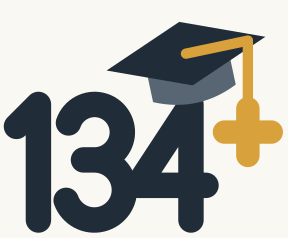
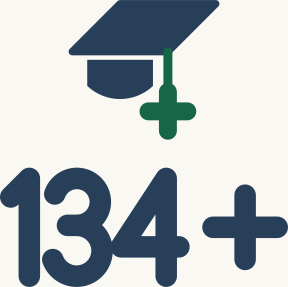
Brand: redesigned 134+ graduation-cap mark (Crafted Cap) (#34)
Keeps the cap and the "134+" numerals, redraws the cap as a designed mark:
the board is a square seen obliquely, so every edge runs at 0° or 45°;
the bowl's underside is one true arc, split from the board by a clean gap;
the tassel falls at 90° over the front edge on a fine cord and ends in a
bold "+" (half / full weight). Two colours: cap in the accent (navy /
periwinkle), the "+" in the success green; the old gold and grey shading
are gone, and the app icon and favicon are now the same drawing.

- public/brand/: symbol, horizontal and stacked lockups, each in colour
  (light), reversed colour (dark), black and white; numerals outlined,
  3–4 gap opened
- public/logo.svg + logo-simple.svg: new sources; scripts/generate-icons.mjs
  regenerated every PNG icon, favicon.ico and the auth-email mark
- BrandLogo: stacked lockup coloured from theme tokens
- Email templates: logo height for the new aspect ratio

diff --git a/src/components/BrandLogo.tsx b/src/components/BrandLogo.tsx
@@ -1,33 +1,15 @@
 /**
- * The 134+ mark without its app-icon tile, for use on the page itself.
- * Same geometry as public/logo.svg, but colored from theme tokens so it reads
- * on both the light paper and the dark background: numerals and cap in ink,
- * cap underside in soft ink, tassel cord and "+" in gold (a deeper gold on
- * light paper, where the brand #F1C779 would be too faint).
+ * The 134+ stacked lockup (mortarboard over the numerals) for use on the page.
+ * Same geometry as public/brand/134plus-stacked.svg, coloured from theme tokens
+ * so it reads on both the light paper and the dark background: cap in the
+ * accent (navy / periwinkle), the tassel's "+" in the success green, numerals in ink.
  */
 export function BrandLogo({ className }: { className?: string }) {
   return (
-    <svg viewBox="82 92 418 346" role="img" aria-label="134+" className={className}>
-      <g
-        transform="translate(30 96) scale(.84)"
-        fill="none"
-        strokeWidth={44}
-        strokeLinecap="round"
-        strokeLinejoin="round"
-        className="stroke-exam-ink"
-      >
-        <path d="M90 214 L128 176 V376" />
-        <path d="M180 208 A48 48 0 1 1 225 272 A52 52 0 1 1 176 342 M206 272 H225" />
-        <path d="M392 376 V176 L300 316 H418" />
-      </g>
-      <g transform="rotate(-12 352 170)">
-        <path d="M290.6 186.5 V229 Q352 257.3 413.4 229 V186.5" className="fill-exam-ink-soft" />
-        <path d="M352 122.8 L470 170 L352 217.2 L234 170 Z" className="fill-exam-ink" />
-      </g>
-      <g fill="none" strokeLinecap="round" strokeLinejoin="round" className="stroke-[#D9A13B] dark:stroke-exam-alt">
-        <path d="M352 170 L442 151 V250" strokeWidth={15} />
-        <path d="M442 250 V318 M408 284 H476" strokeWidth={34} />
-      </g>
+    <svg viewBox="0 0 412.4 410.8" role="img" aria-label="134+" className={className}>
+      <path className="fill-exam-accent" d="M99.74 70.02L168.19 1.57A5.35 5.35 0 0 1 171.98 -0L171.98 -0L308.87 -0A5.35 5.35 0 0 1 312.66 9.13L312.66 9.13L244.21 77.58A5.35 5.35 0 0 1 240.42 79.14L240.42 79.14L103.53 79.14A5.35 5.35 0 0 1 99.74 70.02Z M124.92 85.56H219.03V122.99A68.45 68.45 0 0 1 124.92 122.99Z" />
+      <path className="fill-exam-sage" d="M246.84 73.8L246.84 159.36A6.42 6.42 0 0 1 234.01 159.36L234.01 73.8A6.42 6.42 0 0 1 246.84 73.8Z M253.26 131.55L253.26 187.17A12.83 12.83 0 0 1 227.59 187.17L227.59 131.55A12.83 12.83 0 0 1 253.26 131.55Z M212.62 146.52L268.23 146.52A12.83 12.83 0 0 1 268.23 172.19L212.62 172.19A12.83 12.83 0 0 1 212.62 146.52Z" />
+      <path className="fill-exam-ink" d="M4.51 271.11L31.11 244.51A15.4 15.4 0 0 1 52.89 266.29L26.29 292.89A15.4 15.4 0 0 1 4.51 271.11Z M57.4 255.4L57.4 395.4A15.4 15.4 0 0 1 26.6 395.4L26.6 255.4A15.4 15.4 0 0 1 57.4 255.4Z M63.88 272.67A49 49 0 1 1 109.82 338A15.4 15.4 0 0 1 109.98 307.2A18.2 18.2 0 1 0 92.92 282.93A15.4 15.4 0 0 1 63.88 272.67Z M109.96 307.2A51.8 51.8 0 1 1 61.15 376.93A15.4 15.4 0 0 1 90.05 366.27A21 21 0 1 0 109.84 338A15.4 15.4 0 0 1 109.96 307.2Z M96.6 307.2L109.9 307.2A15.4 15.4 0 0 1 109.9 338L96.6 338A15.4 15.4 0 0 1 96.6 307.2Z M222.6 395.4L222.6 255.4A15.4 15.4 0 0 1 253.4 255.4L253.4 395.4A15.4 15.4 0 0 1 222.6 395.4Z M250.87 263.86L186.47 361.86A15.4 15.4 0 0 1 160.73 344.94L225.13 246.94A15.4 15.4 0 0 1 250.87 263.86Z M173.6 338L256.2 338A15.4 15.4 0 0 1 256.2 368.8L173.6 368.8A15.4 15.4 0 0 1 173.6 338Z M366.4 279.4L366.4 371.4A15.4 15.4 0 0 1 335.6 371.4L335.6 279.4A15.4 15.4 0 0 1 366.4 279.4Z M305 310L397 310A15.4 15.4 0 0 1 397 340.8L305 340.8A15.4 15.4 0 0 1 305 310Z" />
     </svg>
   );
 }

diff --git a/supabase/templates/confirm-signup.html b/supabase/templates/confirm-signup.html
@@ -25,7 +25,7 @@
           <!-- Logo: the same 134+ mark that sits above the login card -->
           <tr>
             <td align="center" style="padding:0 0 24px;">
-              <img src="https://amiret-prep.vercel.app/email/brand-mark.png" width="96" height="79" alt="134+" style="display:block;width:96px;height:auto;border:0;outline:none;text-decoration:none;">
+              <img src="https://amiret-prep.vercel.app/email/brand-mark.png" width="96" height="96" alt="134+" style="display:block;width:96px;height:auto;border:0;outline:none;text-decoration:none;">
             </td>
           </tr>
 

diff --git a/supabase/templates/reset-password.html b/supabase/templates/reset-password.html
@@ -25,7 +25,7 @@
           <!-- Logo: the same 134+ mark that sits above the login card -->
           <tr>
             <td align="center" style="padding:0 0 24px;">
-              <img src="https://amiret-prep.vercel.app/email/brand-mark.png" width="96" height="79" alt="134+" style="display:block;width:96px;height:auto;border:0;outline:none;text-decoration:none;">
+              <img src="https://amiret-prep.vercel.app/email/brand-mark.png" width="96" height="96" alt="134+" style="display:block;width:96px;height:auto;border:0;outline:none;text-decoration:none;">
             </td>
           </tr>
 

diff --git a/supabase/templates/README.md b/supabase/templates/README.md
@@ -22,7 +22,7 @@ Both templates use `{{ .ConfirmationURL }}` (and the confirm email
 ## Email-safety rules these follow
 - Table layout, every style inline (Gmail drops `<style>`), no SVG.
 - Logo: `https://amiret-prep.vercel.app/email/brand-mark.png` (the BrandLogo
-  mark rendered at 3x on the paper color, `public/email/brand-mark.png`).
+  stacked lockup rendered at 3x on the paper color by `scripts/generate-icons.mjs`, `public/email/brand-mark.png`).
   **Deploy it before pasting the templates**, or the logo will 404.
 - Heebo is linked for clients that load web fonts (Apple Mail/iOS); others
   fall back to Arial.
